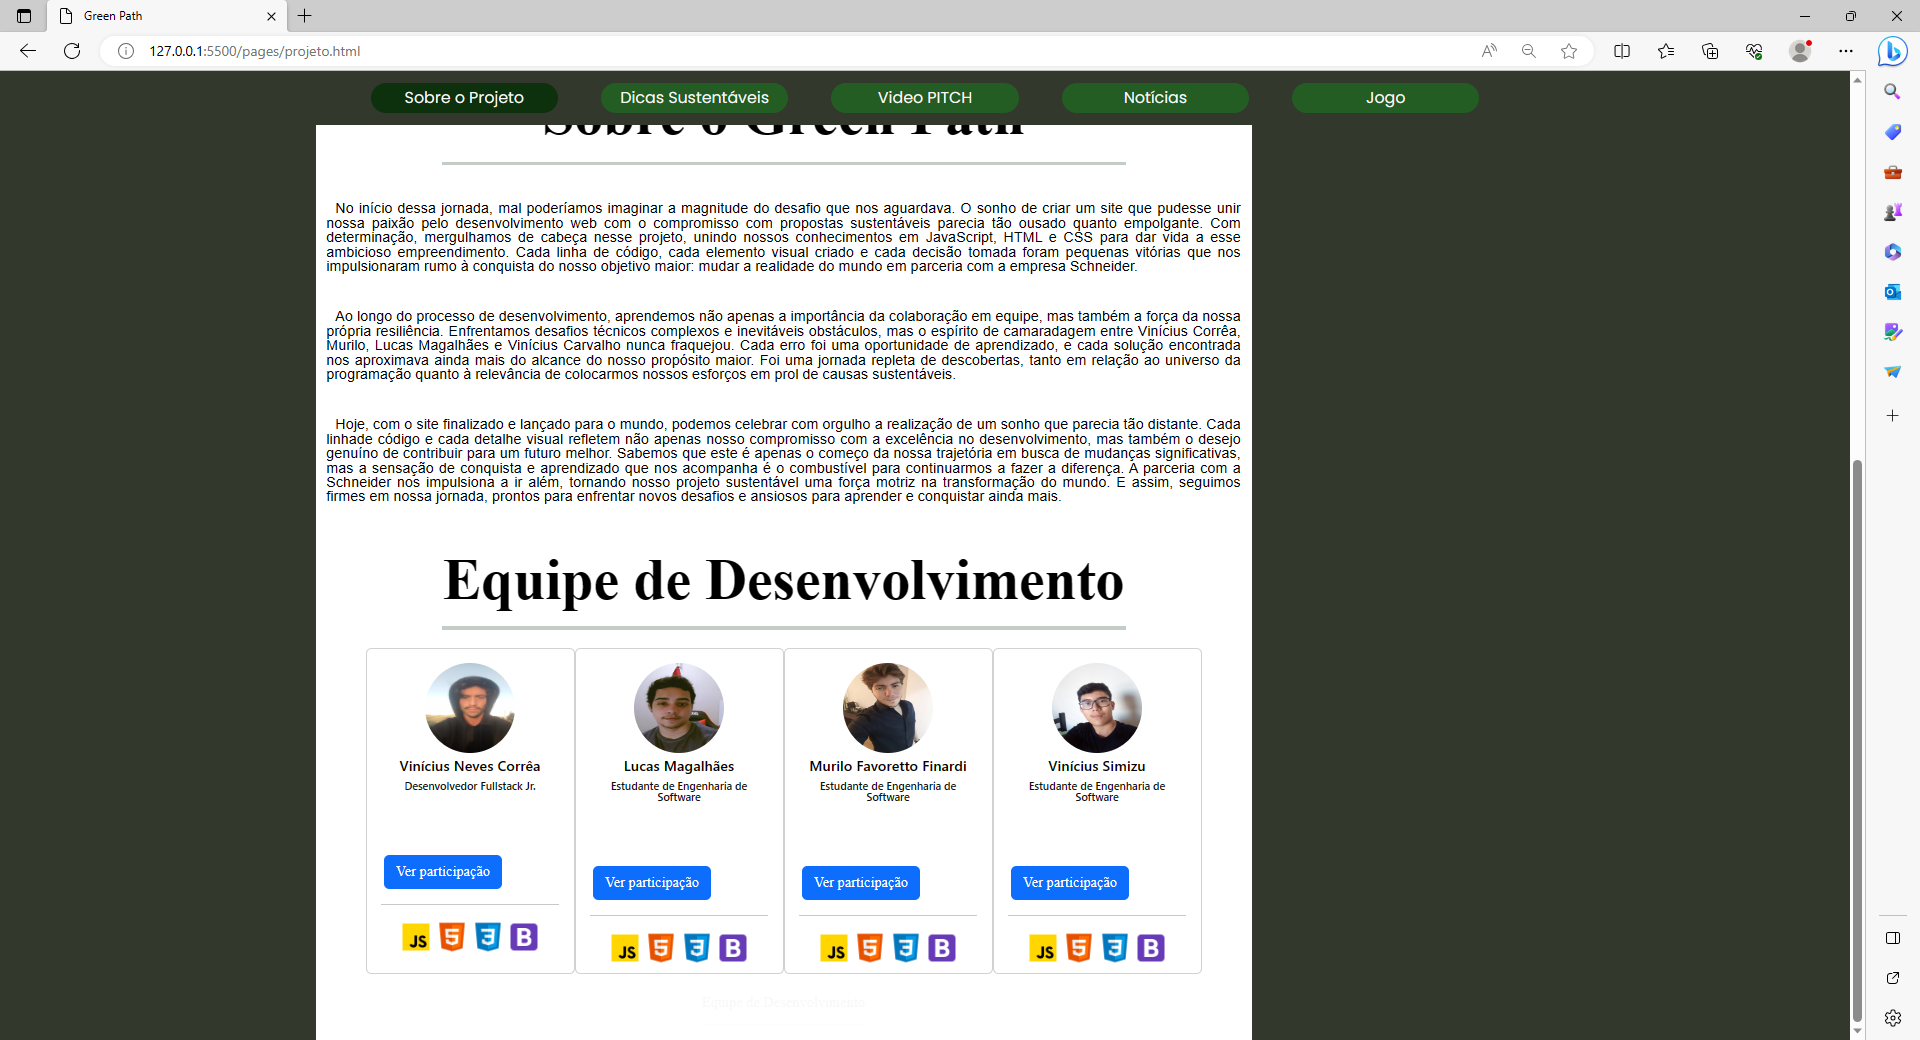
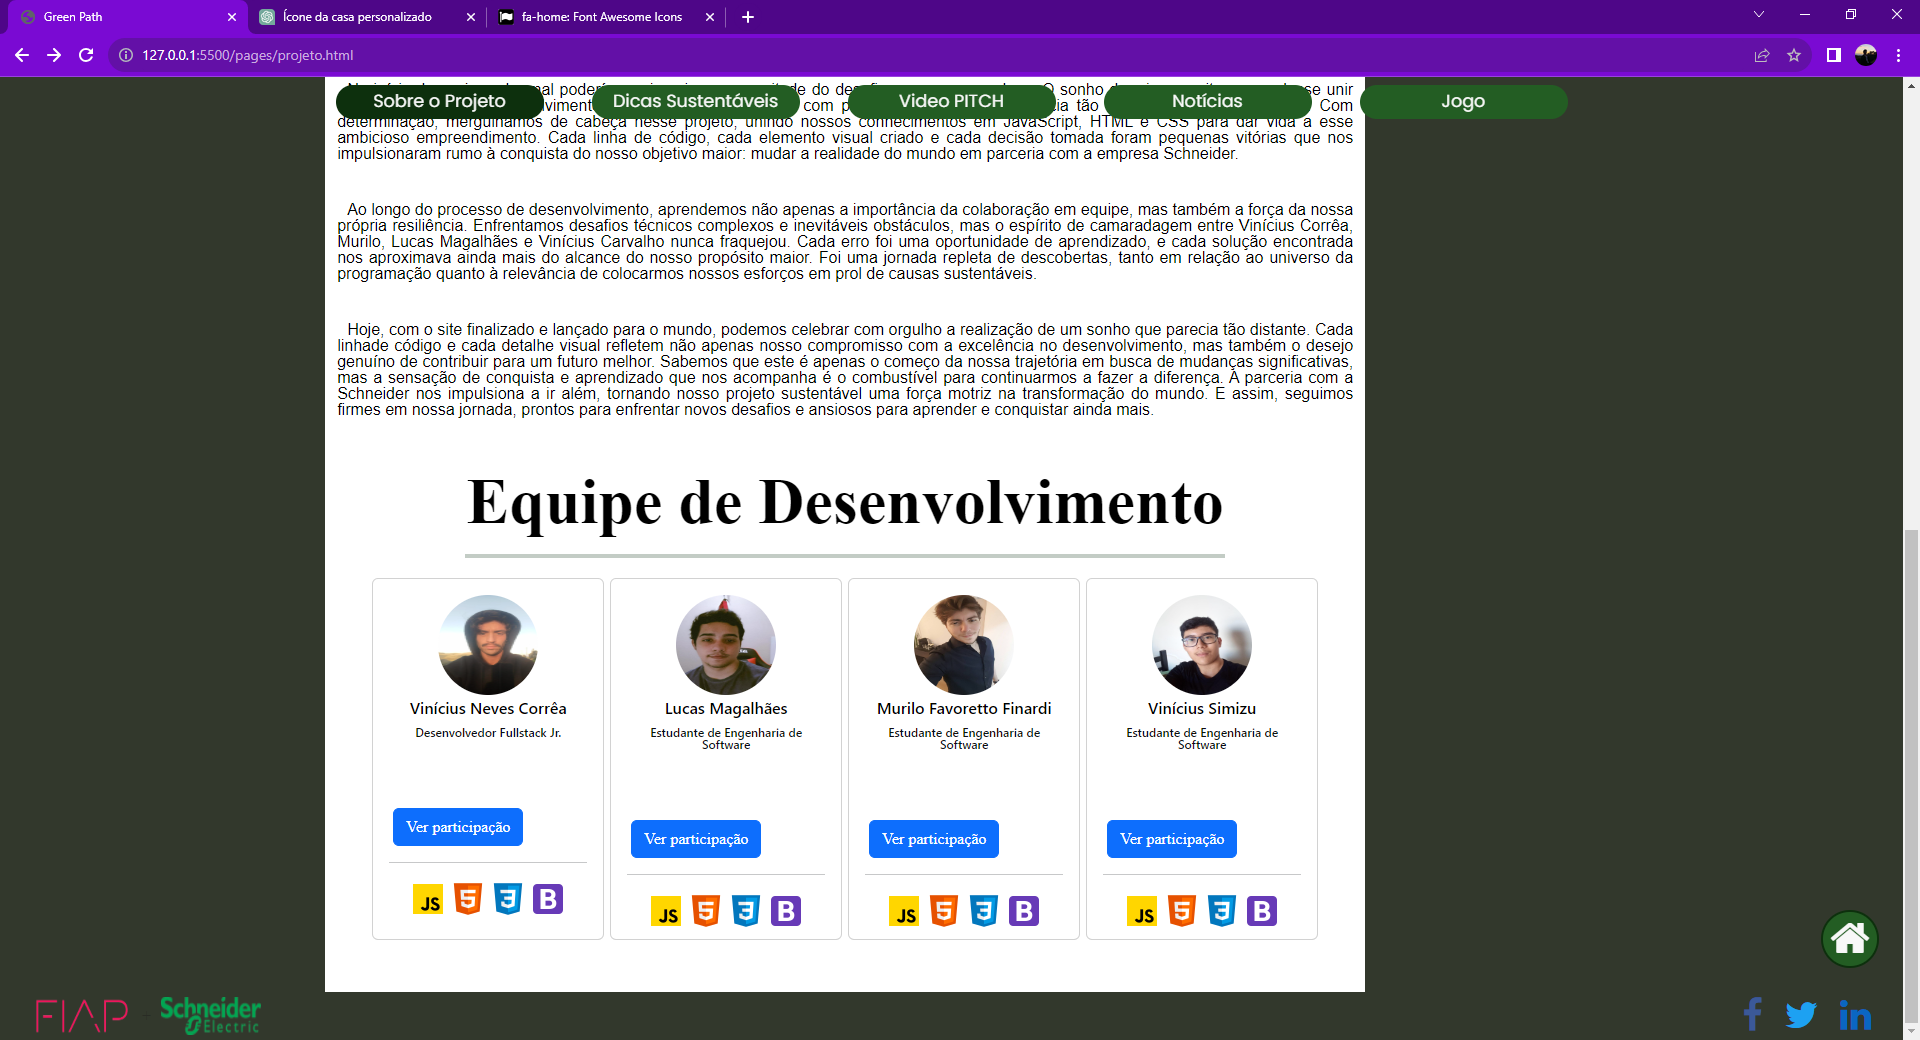
ultima atualizacao

diff --git a/pages/projeto.html b/pages/projeto.html
@@ -130,8 +130,8 @@
               <div class="card-body style-card text-center gap-3">
                 <img src="../images/foto_perfil/foto_vinicius.jpg" class="card-img-top mx-auto d-block style-img-profile" alt="Imagem 1">
                 <h5 class="card-title dev-name">Vinícius Neves Corrêa</h5>
-                <h6 class="card-subtitle dev-title">Desenvolvedor Fullstack Jr.</h6>
-                
+                <h6 class="card-subtitle dev-title">Estudante de Engenharia de Software</h6>
+                <p>RM98392</p>
                 <button class="btn btn-primary btn-view-participation" onclick="openModal('Vinicius_Correa')">Ver participação</button>
                 <hr>
                 <div class="icon-list d-flex justify-content-center">
@@ -150,6 +150,7 @@
                 <img src="../images/foto_perfil/foto_lucas_magalhaes.jpg" class="card-img-top mx-auto d-block style-img-profile" alt="Imagem 2">
                 <h5 class="card-title dev-name">Lucas Magalhães</h5>
                 <h6 class="card-subtitle dev-title">Estudante de Engenharia de Software</h6>
+                <p>RM99638</p>
                 <button class="btn btn-primary btn-view-participation" onclick="openModal('Lucas_Magalhaes')">Ver participação</button>
                 <hr>
                 <div class="icon-list d-flex justify-content-center">
@@ -168,6 +169,7 @@
                 <img src="../images/foto_perfil/foto_murilo.jpg" class="card-img-top mx-auto d-block style-img-profile" alt="Imagem 3">
                 <h5 class="card-title dev-name">Murilo Favoretto Finardi</h5>
                 <h6 class="card-subtitle dev-title">Estudante de Engenharia de Software</h6>
+                <p>RM99950</p>
                 <button class="btn btn-primary btn-view-participation" onclick="openModal('Murilo_Finardi')">Ver participação</button>
                 <hr>
                 <div class="icon-list d-flex justify-content-center">
@@ -186,6 +188,7 @@
                 <img src="../images/foto_perfil/foto_vinicius_simizu.jpg" class="card-img-top mx-auto d-block style-img-profile" alt="Imagem 4">
                 <h5 class="card-title dev-name">Vinícius Simizu</h5>
                 <h6 class="card-subtitle dev-title">Estudante de Engenharia de Software</h6>
+                <p>RM97645</p>
                 <button class="btn btn-primary btn-view-participation" onclick="openModal('Vinicius_Simizu')">Ver participação</button>
                 <hr>
                 <div class="icon-list d-flex justify-content-center">
@@ -302,7 +305,7 @@
 
         first_image = '../images/prints/prints_projeto/print_header.png';
         second_image = '../images/prints/prints_projeto/print_cards.png';
-        third_image = '../images/prints/prints_projeto/print_teste_para_ser_excluido.png';
+        third_image = '../images/prints/prints_projeto/print_3.png';
 
         images = [first_image, second_image, third_image];
         image_modal.src = images[0]
@@ -340,8 +343,8 @@
         modalImage.src = "../images/foto_perfil/foto_murilo.jpg";
         modalp1.textContent = "No contexto do desenvolvimento web, minha expertise abrange JavaScript, Bootstrap, CSS e HTML, sendo essencial para a criação de uma experiência interativa. Como responsável pela aba de dicas sustentáveis, utilizei práticas de desenvolvimento front-end para garantir a usabilidade. Através do Bootstrap, criei layouts responsivos, enquanto CSS e HTML garantiram uma apresentação visual atrativa.";
 
-        first_image = '../images/prints/prints_projeto/print_header.png';
-        second_image = '../images/prints/prints_projeto/print_cards.png';
+        first_image = '../images/prints/prints_dicas/print_dicas_1.png';
+        second_image = '../images/prints/prints_dicas/print_dicas_1.png';
         third_image = '../images/prints/prints_dicas/print_dicas_1.png';
 
         images = [first_image, second_image, third_image];
@@ -360,18 +363,18 @@
         modal.style.display = "block";
         modalh2.textContent = "Vinícius Simizu";
         modalImage.src = "../images/foto_perfil/foto_vinicius_simizu.jpg";
-        modalp1.textContent = "A nossa Página Principal (Landing Page) é um convite visual envolvente que destaca a relevância da sustentabilidade em nossas vidas e no mundo. Por meio de ilustrações cativantes, enfatizamos a importância desse conceito vital e exibimos interativamente como cada ação em prol do meio ambiente contribui para um mundo melhor. ";
+        modalp1.textContent = "Responsavel pela Página inicial (Landing Page) que é um convite visual envolvente que destaca a relevância da sustentabilidade em nossas vidas e no mundo. Por meio de ilustrações cativantes, enfatizamos a importância desse conceito vital e exibimos interativamente como cada ação em prol do meio ambiente contribui para um mundo melhor. ";
 
         
 
         first_image = '../images/prints/prints_noticias/print_noticias_1.png';
-        second_image = '../images/prints/prints_noticias/print_noticias_2.png';
-        third_image = '../images/prints/prints_projeto/print_teste_para_ser_excluido.png';
+        second_image = '../images/prints/prints_noticias/print_noticia_2.png';
+        third_image = '../images/prints/prints_noticias/print_leading_1.png';
 
         images = [first_image, second_image, third_image];
         image_modal.src = images[0]
 
-        modalp2.textContent = "Já na seção de Notícias, mantemos os usuários atualizados com informações sobre sustentabilidade, confiando na fonte de renome CNN. Essa seção oferece insights sobre os mais recentes avanços, incentivando uma compreensão mais profunda das iniciativas que moldam um futuro sustentável. Em relação à arquitetura do site, nosso Cabeçalho (header) é construído para proporcionar uma navegação simples e acessível, permitindo que os visitantes explorem com facilidade as diferentes seções do site, incluindo a Página Principal e as Notícias, garantindo uma experiência coesa e informativa.";
+        modalp2.textContent = "Desenvolvi a seção Página de Notícias, onde mantemos os usuários atualizados com informações sobre sustentabilidade, confiando na fonte de renome CNN. Essa seção oferece insights sobre os mais recentes avanços, incentivando uma compreensão mais profunda das iniciativas que moldam um futuro sustentável. Em relação à arquitetura do site, nosso Cabeçalho (header) é construído para proporcionar uma navegação simples e acessível, permitindo que os visitantes explorem com facilidade as diferentes seções do site, incluindo a Página Principal e as Notícias, garantindo uma experiência coesa e informativa.";
 
         link_github.href = "https://github.com/viniciusSimizu"
         link_linkedin.href = "https://www.linkedin.com/in/vinicius-simizu"

diff --git a/css/projeto/container.css b/css/projeto/container.css
@@ -162,7 +162,7 @@
 }
 
 .style-card{
-  height: 360px;
+  height: 380px;
   width: 230px;
 }
 
